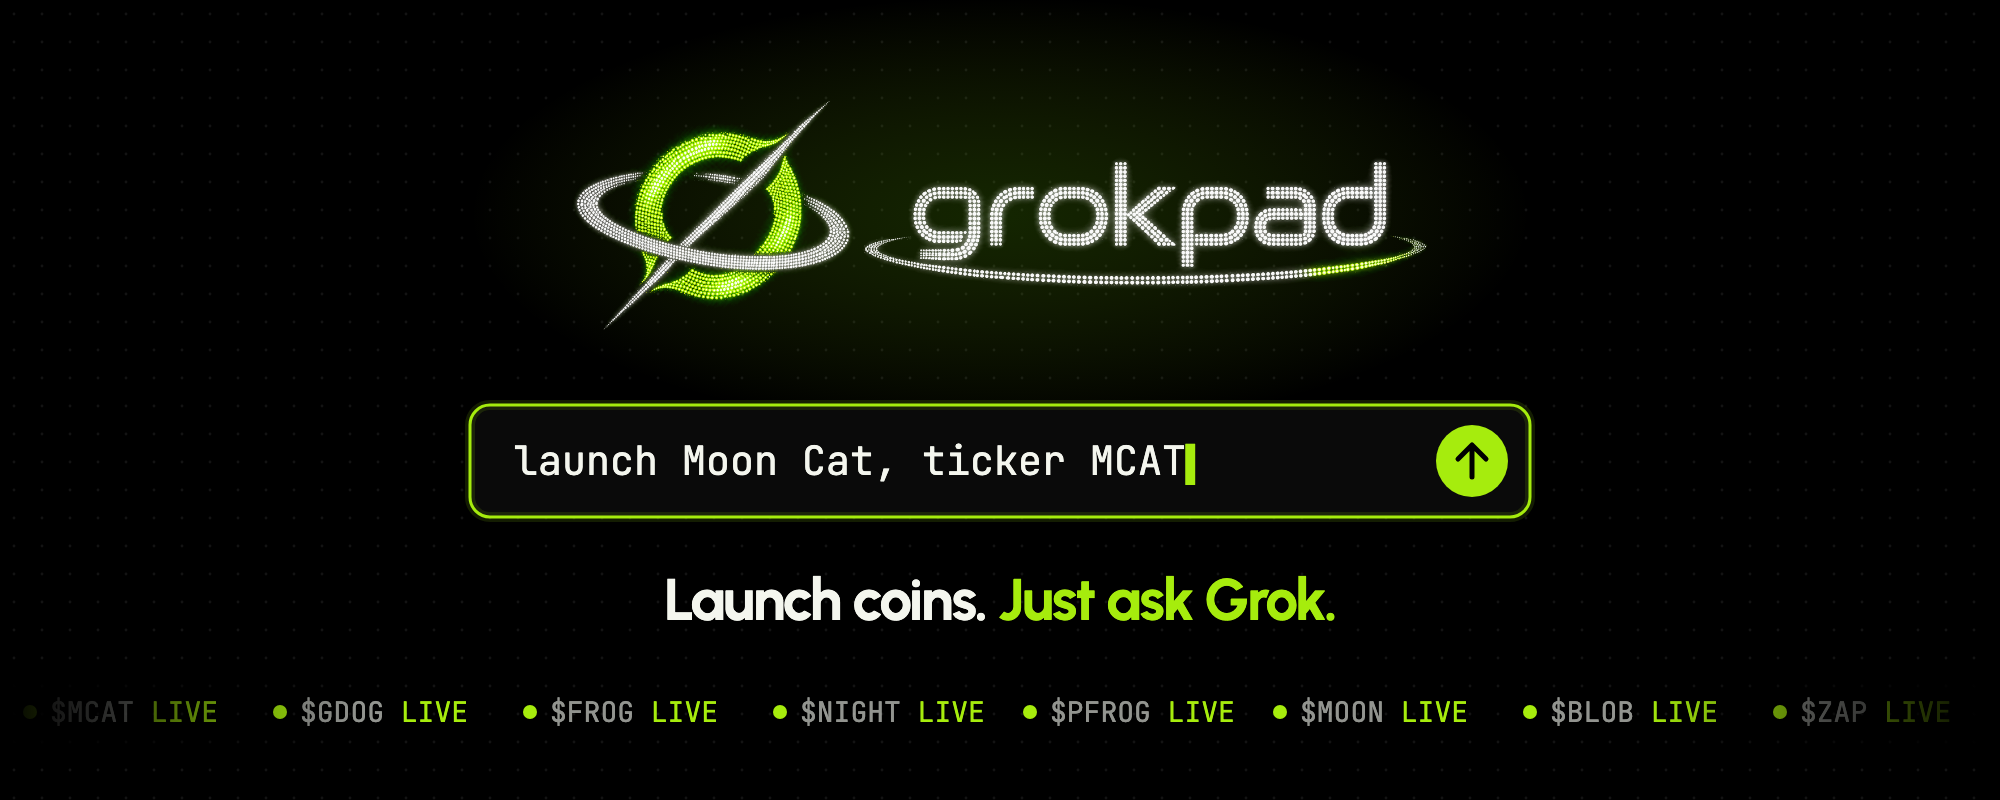
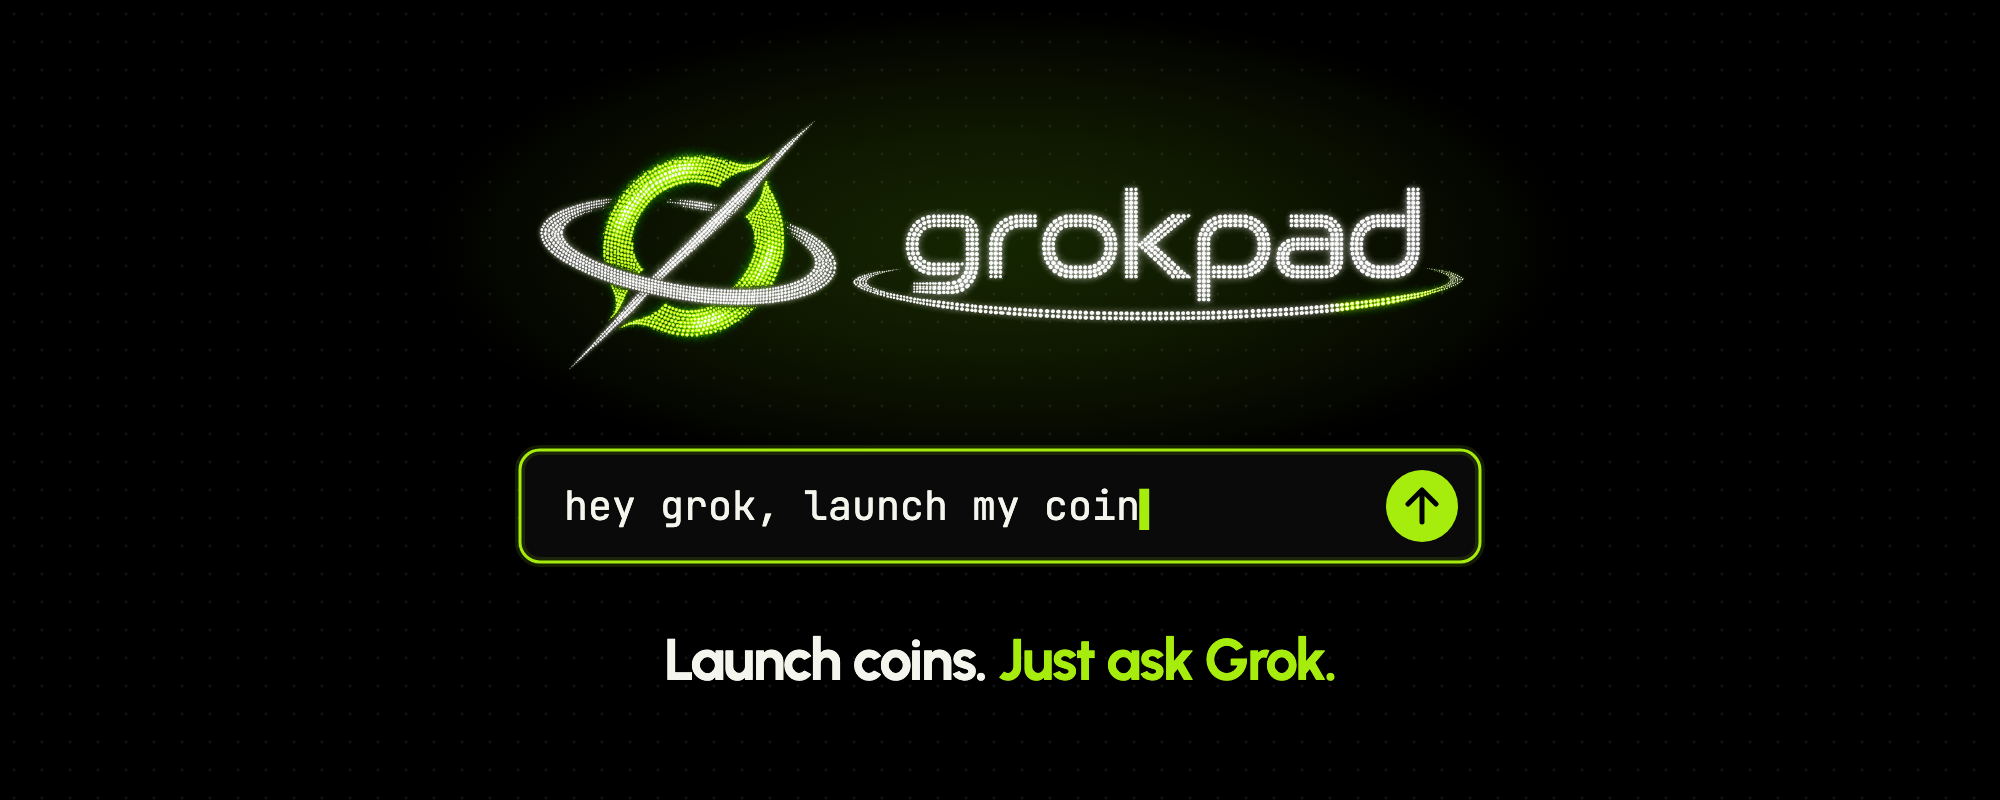
fix: no made-up tickers on the Grokpad cover
A strip of invented tickers marked LIVE reads like real coins; the cover now just shows the ask.

Changed region(s): [[0.031, 0.5, 0.992, 0.9062], [0.248, 0.1562, 0.744, 0.4375]]

diff --git a/kits/grokpad/art/01-cover.html b/kits/grokpad/art/01-cover.html
@@ -22,4 +22,4 @@ svg{display:block}
 </style></head><body><svg width="2000" height="800" viewBox="0 0 2000 800"><defs>
 <radialGradient id="glow" cx="0.5" cy="0.5" r="0.5"><stop offset="0" stop-color="#5aab04" stop-opacity="0.22"/><stop offset="1" stop-color="#a6ec0d" stop-opacity="0"/></radialGradient>
 <pattern id="dots" width="28" height="28" patternUnits="userSpaceOnUse"><circle cx="14" cy="14" r="1.4" fill="#ffffff" fill-opacity="0.075"/></pattern>
-</defs><rect width="2000" height="800" fill="url(#dots)"/><ellipse cx="1000" cy="215" rx="530.7108374384236" ry="218.5" fill="url(#glow)"/><image href="lockup.png" x="572.0073891625616" y="100.0" width="855.9852216748768" height="230"/><rect x="470" y="405" width="1060" height="112" rx="20" fill="#0a0a0a" stroke="#a6ec0d" stroke-width="3"/><rect x="470" y="405" width="1060" height="112" rx="20" fill="none" stroke="#a6ec0d" stroke-width="10" stroke-opacity="0.12"/><text class="mono" x="514" y="475" font-size="40">launch Moon Cat, ticker MCAT<tspan class="lime">▍</tspan></text><circle cx="1472" cy="461.0" r="36" fill="#a6ec0d"/><path d="M1472 477.0V445.0M1458 459.0L1472 445.0L1486 459.0" fill="none" stroke="#000" stroke-width="5" stroke-linecap="round" stroke-linejoin="round"/><text class="disp" x="1000" y="620" font-size="58" text-anchor="middle">Launch coins. <tspan class="lime">Just ask Grok.</tspan></text><defs><linearGradient id="tapefade" x1="0" x2="1"><stop offset="0" stop-color="#000"/><stop offset="0.18" stop-color="#000" stop-opacity="0"/><stop offset="0.82" stop-color="#000" stop-opacity="0"/><stop offset="1" stop-color="#000"/></linearGradient></defs><circle cx="30" cy="712" r="7" fill="#a6ec0d"/><text class="mono" x="50" y="722" font-size="28" style="fill:rgb(244 246 238 / 0.6)">$MCAT <tspan class="lime">LIVE</tspan></text><circle cx="280" cy="712" r="7" fill="#a6ec0d"/><text class="mono" x="300" y="722" font-size="28" style="fill:rgb(244 246 238 / 0.6)">$GDOG <tspan class="lime">LIVE</tspan></text><circle cx="530" cy="712" r="7" fill="#a6ec0d"/><text class="mono" x="550" y="722" font-size="28" style="fill:rgb(244 246 238 / 0.6)">$FROG <tspan class="lime">LIVE</tspan></text><circle cx="780" cy="712" r="7" fill="#a6ec0d"/><text class="mono" x="800" y="722" font-size="28" style="fill:rgb(244 246 238 / 0.6)">$NIGHT <tspan class="lime">LIVE</tspan></text><circle cx="1030" cy="712" r="7" fill="#a6ec0d"/><text class="mono" x="1050" y="722" font-size="28" style="fill:rgb(244 246 238 / 0.6)">$PFROG <tspan class="lime">LIVE</tspan></text><circle cx="1280" cy="712" r="7" fill="#a6ec0d"/><text class="mono" x="1300" y="722" font-size="28" style="fill:rgb(244 246 238 / 0.6)">$MOON <tspan class="lime">LIVE</tspan></text><circle cx="1530" cy="712" r="7" fill="#a6ec0d"/><text class="mono" x="1550" y="722" font-size="28" style="fill:rgb(244 246 238 / 0.6)">$BLOB <tspan class="lime">LIVE</tspan></text><circle cx="1780" cy="712" r="7" fill="#a6ec0d"/><text class="mono" x="1800" y="722" font-size="28" style="fill:rgb(244 246 238 / 0.6)">$ZAP <tspan class="lime">LIVE</tspan></text><rect x="0" y="680" width="2000" height="70" fill="url(#tapefade)"/></svg></body></html>
+</defs><rect width="2000" height="800" fill="url(#dots)"/><ellipse cx="1000" cy="245" rx="576.85960591133" ry="237.5" fill="url(#glow)"/><image href="lockup.png" x="534.7906403940887" y="120.0" width="930.4187192118227" height="250"/><rect x="520" y="450" width="960" height="112" rx="20" fill="#0a0a0a" stroke="#a6ec0d" stroke-width="3"/><rect x="520" y="450" width="960" height="112" rx="20" fill="none" stroke="#a6ec0d" stroke-width="10" stroke-opacity="0.12"/><text class="mono" x="564" y="520" font-size="40">hey grok, launch my coin<tspan class="lime">▍</tspan></text><circle cx="1422" cy="506.0" r="36" fill="#a6ec0d"/><path d="M1422 522.0V490.0M1408 504.0L1422 490.0L1436 504.0" fill="none" stroke="#000" stroke-width="5" stroke-linecap="round" stroke-linejoin="round"/><text class="disp" x="1000" y="680" font-size="58" text-anchor="middle">Launch coins. <tspan class="lime">Just ask Grok.</tspan></text></svg></body></html>

diff --git a/kits/grokpad/art/gen.py b/kits/grokpad/art/gen.py
@@ -58,24 +58,15 @@ def lockup(cx, cy, h, glow=True):
 
 
 # ---------------------------------------------------------------- 1 cover 2000x800
-b = [lockup(1000, 215, 230)]
+b = [lockup(1000, 245, 250)]
 # the Grok prompt bar, mid-launch
-bx, by, bw, bh = 470, 405, 1060, 112
+bx, by, bw, bh = 520, 450, 960, 112
 b.append(f'<rect x="{bx}" y="{by}" width="{bw}" height="{bh}" rx="20" fill="#0a0a0a" stroke="{LIME}" stroke-width="3"/>')
 b.append(f'<rect x="{bx}" y="{by}" width="{bw}" height="{bh}" rx="20" fill="none" stroke="{LIME}" stroke-width="10" stroke-opacity="0.12"/>')
-b.append(f'<text class="mono" x="{bx + 44}" y="{by + 70}" font-size="40">launch Moon Cat, ticker MCAT<tspan class="lime">▍</tspan></text>')
+b.append(f'<text class="mono" x="{bx + 44}" y="{by + 70}" font-size="40">hey grok, launch my coin<tspan class="lime">▍</tspan></text>')
 b.append(f'<circle cx="{bx + bw - 58}" cy="{by + bh / 2}" r="36" fill="{LIME}"/>')
 b.append(f'<path d="M{bx + bw - 58} {by + bh / 2 + 16}V{by + bh / 2 - 16}M{bx + bw - 72} {by + bh / 2 - 2}L{bx + bw - 58} {by + bh / 2 - 16}L{bx + bw - 44} {by + bh / 2 - 2}" fill="none" stroke="#000" stroke-width="5" stroke-linecap="round" stroke-linejoin="round"/>')
-b.append('<text class="disp" x="1000" y="620" font-size="58" text-anchor="middle">Launch coins. <tspan class="lime">Just ask Grok.</tspan></text>')
-# a tape of coins going live
-tape = ['$MCAT', '$GDOG', '$FROG', '$NIGHT', '$PFROG', '$MOON', '$BLOB', '$ZAP']
-b.append('<defs><linearGradient id="tapefade" x1="0" x2="1"><stop offset="0" stop-color="#000"/><stop offset="0.18" stop-color="#000" stop-opacity="0"/><stop offset="0.82" stop-color="#000" stop-opacity="0"/><stop offset="1" stop-color="#000"/></linearGradient></defs>')
-x = 30
-for t in tape:
-    b.append(f'<circle cx="{x}" cy="{712}" r="7" fill="{LIME}"/>')
-    b.append(f'<text class="mono" x="{x + 20}" y="{722}" font-size="28" style="fill:rgb(244 246 238 / 0.6)">{t} <tspan class="lime">LIVE</tspan></text>')
-    x += 250
-b.append('<rect x="0" y="680" width="2000" height="70" fill="url(#tapefade)"/>')
+b.append('<text class="disp" x="1000" y="680" font-size="58" text-anchor="middle">Launch coins. <tspan class="lime">Just ask Grok.</tspan></text>')
 page('01-cover.html', 2000, 800, b)
 
 # ---------------------------------------------------------------- 2 plug in 1600x900
